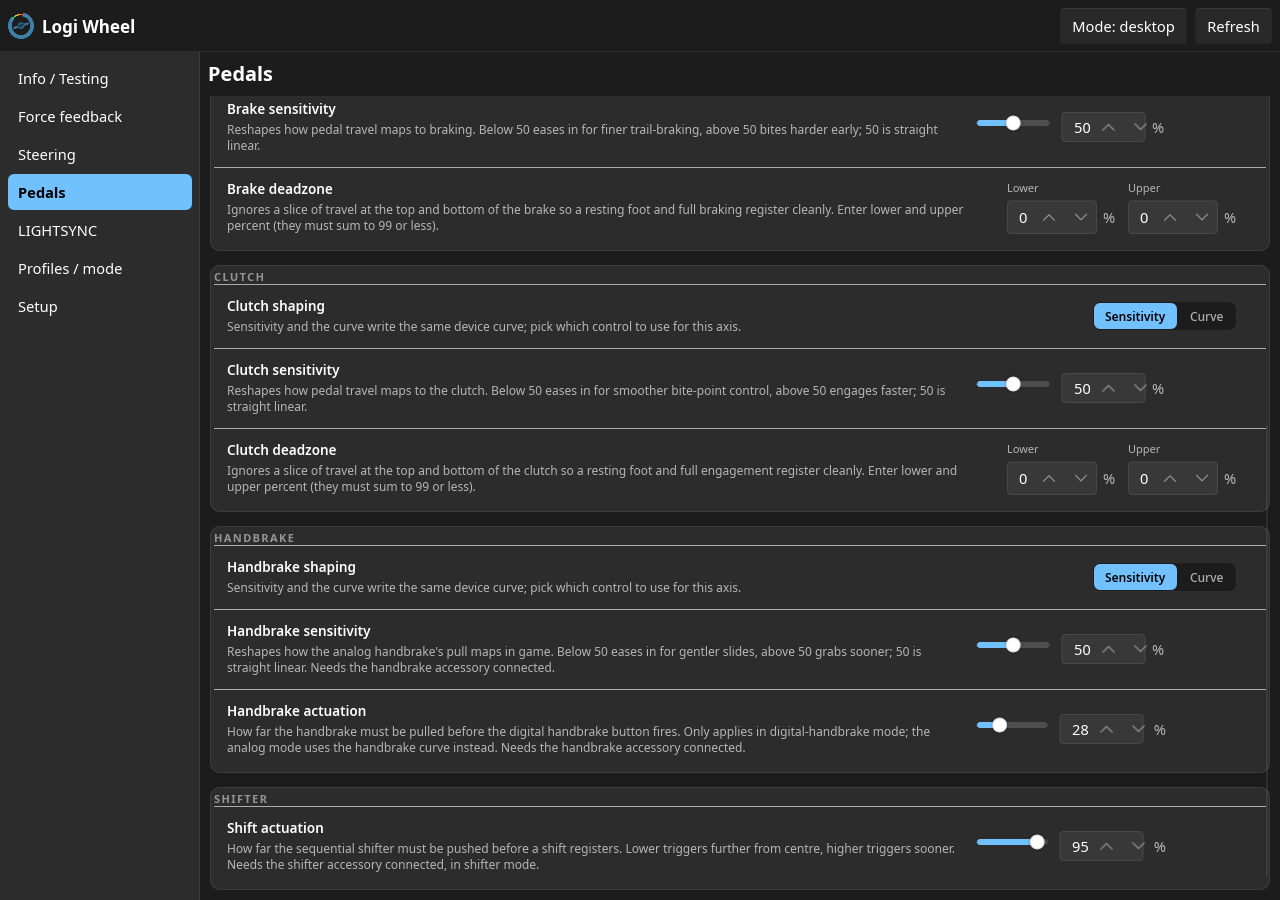
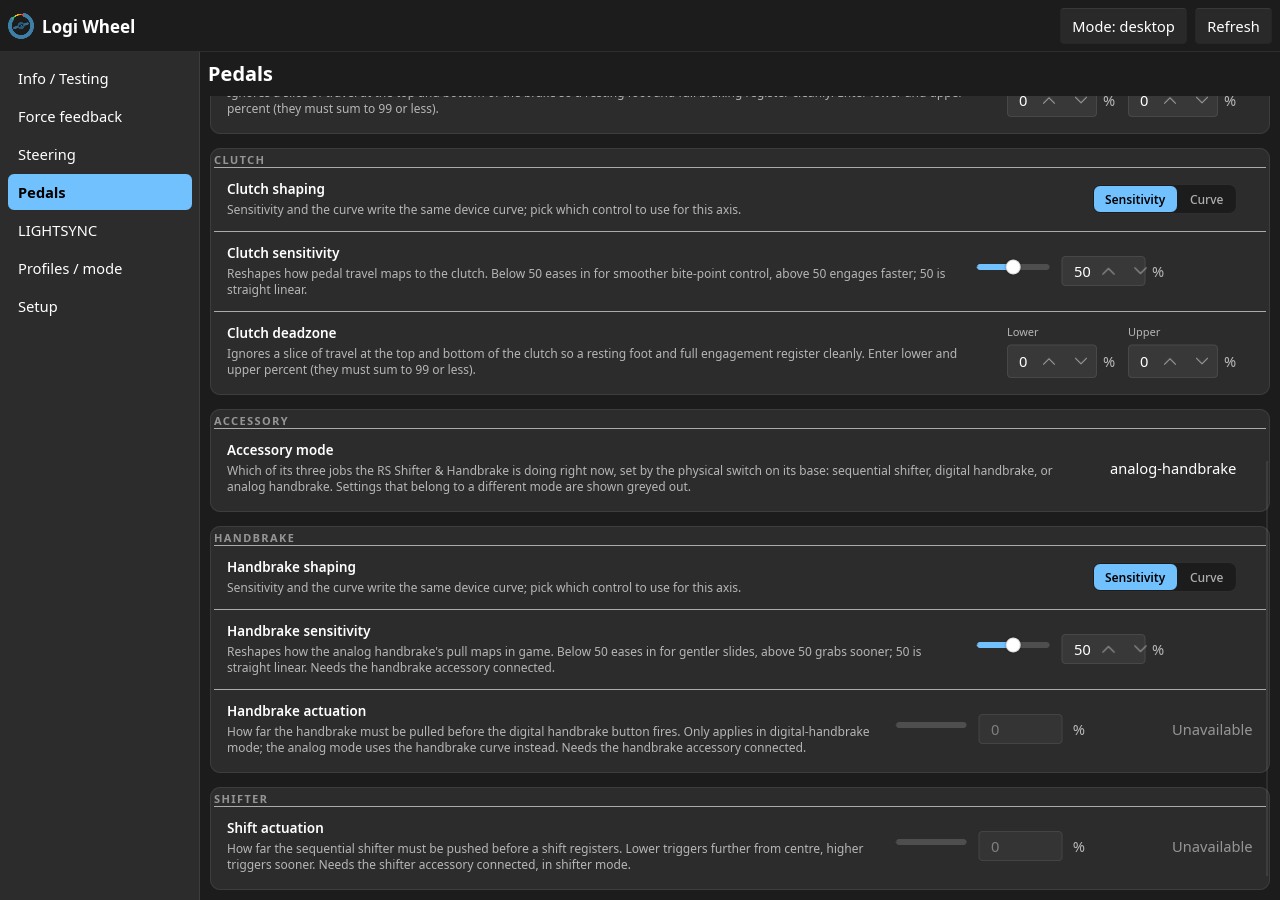
feat(rs50): report the accessory's mode switch and grey what it does not apply to
The RS Shifter & Handbrake is one of three things at a time, chosen by a
physical switch on its base, and most of its settings belong to exactly one
of them - a shift actuation point does nothing while the unit is a handbrake.
Until now the app offered all of them at once with no way to tell which were
live.

wheel_accessory_mode reads the position from feature 0x1B30 fn2 on the
accessory. The value ordering is NOT the switch's left-to-right order, which
is exactly why it was measured rather than assumed - moving the switch
through all three positions while watching fn2 gave:

    0 = sequential shifter   (LEFT)
    2 = digital handbrake    (MIDDLE)
    1 = analog handbrake     (RIGHT)

fn0 returns a static `1a 03 01` and is not the mode; an earlier poll appeared
to show it changing only because it matched replies on the feature index
alone and was picking up fn2's answers.

The apps grey a setting whose mode is not the live one and say which mode it
needs. Gating is presentation-only: sysfs stays writable, because the values
persist across a mode change and setting one up before flipping the switch is
legitimate. An unreadable or unrecognised mode never hides anything.

Verified on hardware: the attribute matches the physical switch, and the GUI
greys Handbrake actuation and Shift actuation while the unit sits in analog
handbrake.

diff --git a/userspace/logi-wheel/crates/logi-wheel-core/src/device.rs b/userspace/logi-wheel/crates/logi-wheel-core/src/device.rs
@@ -98,6 +98,27 @@ pub fn requires_accessory(attr: &str) -> bool {
     ACCESSORY_ATTRS.contains(&attr)
 }
 
+/// The accessory mode an attribute needs before it does anything.
+///
+/// The RS Shifter & Handbrake is one of three things at a time, chosen by a
+/// physical switch, and most of its settings belong to exactly one of them:
+/// a shift actuation point is meaningless while the unit is a handbrake. The
+/// driver reports the live position in `wheel_accessory_mode`, so a frontend
+/// can grey the settings that are not currently doing anything and say why.
+///
+/// Deliberately advisory rather than enforced: the values persist across a
+/// mode change, so writing one while the switch is elsewhere is a legitimate
+/// thing to do (set it up now, flip the switch later). sysfs stays
+/// permissive; only the presentation changes.
+pub fn required_mode(attr: &str) -> Option<&'static str> {
+    match attr {
+        "wheel_shift_actuation" => Some("shifter"),
+        "wheel_handbrake_actuation" => Some("digital-handbrake"),
+        "wheel_handbrake_sensitivity" | "wheel_handbrake_curve" => Some("analog-handbrake"),
+        _ => None,
+    }
+}
+
 pub struct Device<S: SysfsIo> {
     io: S,
     model: WheelModel,
@@ -299,7 +320,10 @@ impl<S: SysfsIo> Device<S> {
         if !self.io.exists(attr) {
             return false;
         }
-        !(requires_accessory(attr) && self.accessory_attached() == Some(false))
+        if requires_accessory(attr) && self.accessory_attached() == Some(false) {
+            return false;
+        }
+        !self.wrong_accessory_mode(attr)
     }
 
     /// Whether `cat` has anything to show for this device: at least one row
@@ -408,6 +432,9 @@ impl<S: SysfsIo> Device<S> {
         if requires_accessory(attr) && self.accessory_attached() == Some(false) {
             return Ok(None);
         }
+        if self.wrong_accessory_mode(attr) {
+            return Ok(None);
+        }
         match self.read(attr) {
             Ok(v) => Ok(Some(v)),
             Err(Error::Unsupported) => Ok(None),
@@ -421,6 +448,31 @@ impl<S: SysfsIo> Device<S> {
     /// driver older than accessory discovery) or unreadable. Callers must
     /// treat `None` as "show the row" rather than hiding it, so an older
     /// driver keeps working instead of silently losing settings.
+    /// The accessory's live mode from `wheel_accessory_mode`, or `None` when
+    /// it cannot be read (no accessory, a driver without the attribute, or
+    /// the firmware reporting a value this build does not know).
+    pub fn accessory_mode(&self) -> Option<String> {
+        if !self.io.exists("wheel_accessory_mode") {
+            return None;
+        }
+        let raw = self.io.read("wheel_accessory_mode").ok()?;
+        let t = raw.trim();
+        if t.is_empty() || t.starts_with("unknown") {
+            return None;
+        }
+        Some(t.to_string())
+    }
+
+    /// Whether `attr` is idle because the accessory is in a different mode.
+    /// `false` whenever the mode cannot be read, so an unknown mode never
+    /// hides a control.
+    pub fn wrong_accessory_mode(&self, attr: &str) -> bool {
+        match (required_mode(attr), self.accessory_mode()) {
+            (Some(want), Some(have)) => want != have,
+            _ => false,
+        }
+    }
+
     pub fn accessory_attached(&self) -> Option<bool> {
         if !self.io.exists("wheel_accessory") {
             return None;
@@ -627,6 +679,55 @@ mod tests {
             d.read_supported("wheel_handbrake_sensitivity").unwrap(),
             Some(Value::Percent(50))
         );
+    }
+
+    /// A wheel with the accessory attached and switched to `mode`.
+    fn dev_in_mode(mode: &str) -> Device<FakeSysfs> {
+        let fs = FakeSysfs::new();
+        for a in ["wheel_shift_actuation", "wheel_handbrake_actuation",
+                  "wheel_handbrake_sensitivity", "wheel_range"] {
+            fs.set(a, "50");
+        }
+        fs.set("wheel_accessory", "RS Shifter & Handbrake");
+        fs.set("wheel_accessory_mode", mode);
+        Device::with_io(fs)
+    }
+
+    #[test]
+    fn accessory_settings_are_gated_on_the_mode_the_switch_is_in() {
+        // The unit is one of three things at a time, and each setting belongs
+        // to exactly one of them.
+        let shifter = dev_in_mode("shifter");
+        assert!(shifter.available("wheel_shift_actuation"));
+        assert!(!shifter.available("wheel_handbrake_actuation"));
+        assert!(!shifter.available("wheel_handbrake_sensitivity"));
+
+        let digital = dev_in_mode("digital-handbrake");
+        assert!(!digital.available("wheel_shift_actuation"));
+        assert!(digital.available("wheel_handbrake_actuation"));
+        assert!(!digital.available("wheel_handbrake_sensitivity"));
+
+        let analog = dev_in_mode("analog-handbrake");
+        assert!(!analog.available("wheel_shift_actuation"));
+        assert!(!analog.available("wheel_handbrake_actuation"));
+        assert!(analog.available("wheel_handbrake_sensitivity"));
+
+        // Nothing else is touched by the mode.
+        assert!(analog.available("wheel_range"));
+    }
+
+    #[test]
+    fn an_unreadable_mode_never_hides_anything() {
+        // A driver without the attribute, or a firmware reporting a value this
+        // build does not know, must not make settings disappear.
+        let fs = FakeSysfs::new();
+        fs.set("wheel_shift_actuation", "50");
+        fs.set("wheel_handbrake_actuation", "50");
+        fs.set("wheel_accessory", "RS Shifter & Handbrake");
+        let d = Device::with_io(fs);
+        assert_eq!(d.accessory_mode(), None);
+        assert!(d.available("wheel_shift_actuation"));
+        assert!(d.available("wheel_handbrake_actuation"));
     }
 
     #[test]

diff --git a/mainline/hid-logitech-hidpp.c b/mainline/hid-logitech-hidpp.c
@@ -12448,6 +12448,61 @@ static ssize_t wheel_shift_actuation_store(struct device *dev,
 		return hidpp_errno(hid, ret, "set shift actuation (down)");
 	return count;
 }
+/*
+ * wheel_accessory_mode: which of its three things the RS Shifter & Handbrake
+ * currently is, read from feature 0x1B30 (DEVICE_MODE) fn2 on the accessory.
+ *
+ * The unit has a physical three-position switch and only one mode is live at
+ * a time, so most of its settings apply to only one of them. Reporting the
+ * position lets a frontend say which controls are currently doing anything
+ * instead of offering all of them at once.
+ *
+ * The value ordering is NOT the switch's left-to-right order, which is
+ * exactly why it was measured rather than assumed (hardware, 2026-07-28,
+ * moving the switch through all three positions while watching fn2):
+ *
+ *   0 = sequential shifter   (switch LEFT)
+ *   2 = digital handbrake    (switch MIDDLE)
+ *   1 = analog handbrake     (switch RIGHT)
+ *
+ * fn0 returns a static `1a 03 01` on this firmware and is not the mode.
+ */
+static const char * const hidpp_dd_accessory_modes[] = {
+	[0] = "shifter",
+	[1] = "analog-handbrake",
+	[2] = "digital-handbrake",
+};
+
+static ssize_t wheel_accessory_mode_show(struct device *dev,
+					 struct device_attribute *attr,
+					 char *buf)
+{
+	struct hid_device *hid = to_hid_device(dev);
+	struct hidpp_dd_ff_data *ff;
+	struct hidpp_report response;
+	u8 mode;
+	int ret;
+
+	ff = hidpp_dd_accessory_ff(hid_get_drvdata(hid), &ret);
+	if (!ff)
+		return ret;
+	if (ff->idx_shifter_mode == HIDPP_DD_FEATURE_NOT_FOUND)
+		return -EOPNOTSUPP;
+
+	memset(&response, 0, sizeof(response));
+	ret = hidpp_send_fap_to_device_sync(ff->hidpp, ff->shifter_dev_idx,
+					    ff->idx_shifter_mode,
+					    0x20 /* fn2 get mode */,
+					    NULL, 0, &response);
+	if (ret)
+		return hidpp_errno(hid, ret, "read accessory mode");
+	mode = response.fap.params[0];
+	if (mode >= ARRAY_SIZE(hidpp_dd_accessory_modes))
+		return sysfs_emit(buf, "unknown (%u)\n", mode);
+	return sysfs_emit(buf, "%s\n", hidpp_dd_accessory_modes[mode]);
+}
+static DEVICE_ATTR(wheel_accessory_mode, 0444, wheel_accessory_mode_show, NULL);
+
 static DEVICE_ATTR(wheel_shift_actuation, 0664,
 		   wheel_shift_actuation_show,
 		   wheel_shift_actuation_store);
@@ -12686,6 +12741,7 @@ static struct attribute *hidpp_dd_wheel_group_attrs[] = {
 	&dev_attr_wheel_serial.attr,
 	&dev_attr_wheel_firmware.attr,
 	&dev_attr_wheel_accessory.attr,
+	&dev_attr_wheel_accessory_mode.attr,
 	&dev_attr_wheel_shift_actuation.attr,
 	&dev_attr_wheel_handbrake_actuation.attr,
 	&dev_attr_wheel_profile_names.attr,

diff --git a/userspace/logi-wheel/crates/logi-wheel-gui/src/bridge.rs b/userspace/logi-wheel/crates/logi-wheel-gui/src/bridge.rs
@@ -144,6 +144,7 @@ pub fn attr_group(attr: &str) -> &'static str {
         "wheel_clutch_sensitivity" | "wheel_clutch_curve" | "wheel_clutch_deadzone" => "CLUTCH",
         "wheel_handbrake_sensitivity" | "wheel_handbrake_curve"
         | "wheel_handbrake_actuation" => "HANDBRAKE",
+        "wheel_accessory_mode" => "ACCESSORY",
         "wheel_shift_actuation" => "SHIFTER",
         "wheel_led_effect" | "wheel_led_brightness" => "STRIP",
         "wheel_led_slot" | "wheel_led_slot_name" | "wheel_led_colors" | "wheel_led_direction"
@@ -2048,8 +2049,10 @@ mod tests {
         ] {
             fs.set(attr, "50");
         }
-        // The handbrake axis is real only with the accessory attached.
+        // The handbrake axis is real only with the accessory attached, and
+        // only while the unit is switched to the analog handbrake.
         fs.set("wheel_accessory", "RS Shifter & Handbrake");
+        fs.set("wheel_accessory_mode", "analog-handbrake");
         let vm = crate::viewmodel::ViewModel::with_io(fs);
         setting_rows(&vm.rows_for(cat))
     }
@@ -2120,6 +2123,7 @@ mod tests {
                 shaping::toggle_attr(Axis::Clutch),
                 "wheel_clutch_sensitivity",
                 "wheel_clutch_deadzone",
+                "wheel_accessory_mode",
                 shaping::toggle_attr(Axis::Handbrake),
                 "wheel_handbrake_sensitivity",
                 "wheel_shift_actuation",
@@ -2146,6 +2150,7 @@ mod tests {
                 shaping::toggle_attr(Axis::Clutch),
                 "wheel_clutch_curve",
                 "wheel_clutch_deadzone",
+                "wheel_accessory_mode",
                 shaping::toggle_attr(Axis::Handbrake),
                 "wheel_handbrake_curve",
                 "wheel_shift_actuation",

diff --git a/userspace/logi-wheel/crates/logi-wheel-core/src/registry.rs b/userspace/logi-wheel/crates/logi-wheel-core/src/registry.rs
@@ -63,6 +63,7 @@ pub const REGISTRY: &[SettingSpec] = &[
     // says marks them inapplicable. `Device::requires_accessory` gates them on
     // `wheel_accessory` instead, which is what makes the rows read unavailable
     // when no handbrake is connected.
+    SettingSpec { attr: "wheel_accessory_mode", label: "Accessory mode", help: "Which of its three jobs the RS Shifter & Handbrake is doing right now, set by the physical switch on its base: sequential shifter, digital handbrake, or analog handbrake. Settings that belong to a different mode are shown greyed out.", category: Pedals, kind: Kind::TextField { max_len: 24 }, access: ReadOnly, mode_req: Any },
     SettingSpec { attr: "wheel_handbrake_sensitivity", label: "Handbrake sensitivity", help: "Reshapes how the analog handbrake's pull maps in game. Below 50 eases in for gentler slides, above 50 grabs sooner; 50 is straight linear. Needs the handbrake accessory connected.", category: Pedals, kind: PCT, access: ReadWrite, mode_req: Any },
     SettingSpec { attr: "wheel_handbrake_curve", label: "Handbrake curve", help: "Shapes the whole handbrake response by hand for precise slide control across its travel. Use 'reset' for the straight built-in response. Needs the handbrake accessory connected.", category: Pedals, kind: Kind::Curve, access: ReadWrite, mode_req: Any },
     // The accessory's own actuation points (0x80B1), after the handbrake
@@ -239,6 +240,7 @@ mod tests {
                 "wheel_clutch_sensitivity",
                 "wheel_clutch_curve",
                 "wheel_clutch_deadzone",
+                "wheel_accessory_mode",
                 "wheel_handbrake_sensitivity",
                 "wheel_handbrake_curve",
                 "wheel_shift_actuation",

diff --git a/userspace/logi-wheel/crates/logi-wheel-tui/src/ui.rs b/userspace/logi-wheel/crates/logi-wheel-tui/src/ui.rs
@@ -362,12 +362,18 @@ fn draw_settings<S: SysfsIo>(buf: &mut Buffer, app: &App<S>, area: Rect) {
                     // An accessory setting is not missing from the wheel, it is
                     // waiting on hardware the user can plug in, so say so rather
                     // than claiming the wheel does not have it.
-                    let why = if logi_wheel_core::device::requires_accessory(&row.attr) {
-                        "(needs handbrake accessory)"
-                    } else {
-                        "(not on this wheel)"
+                    // Say which of the two reasons applies: the accessory is
+                    // missing, or it is present but switched to another mode.
+                    let why = match logi_wheel_core::device::required_mode(&row.attr) {
+                        Some(m) if app.device.accessory_attached() == Some(true) => {
+                            format!("(needs {m} mode)")
+                        }
+                        _ if logi_wheel_core::device::requires_accessory(&row.attr) => {
+                            "(needs handbrake accessory)".to_string()
+                        }
+                        _ => "(not on this wheel)".to_string(),
                     };
-                    (why.to_string(), Style::default().fg(Color::DarkGray))
+                    (why, Style::default().fg(Color::DarkGray))
                 } else if shaping::toggle_axis(&row.attr).is_some() {
                     // A synthetic per-axis view toggle (no registry spec):
                     // show which shaping control the axis currently offers.

diff --git a/README.md b/README.md
@@ -189,9 +189,11 @@ curve editor.
 
 ![logi-wheel-gui curve editor](docs/images/logi-wheel-curve-editor.png)
 
-The **RS Shifter & Handbrake** is supported too: plug it into the wheel base
-and its settings appear on their own, including the shift and handbrake
-trigger points. Unplug it and they go away again.
+The **RS Shifter & Handbrake** is supported too. Plug it into the wheel base
+and its settings appear on their own; unplug it and they go away again. The
+app also reads the physical three-position switch on its base and greys out
+whatever does not apply: below it is in analog-handbrake mode, so the
+handbrake curve is live while the two trigger points are not.
 
 ![logi-wheel-gui RS Shifter and Handbrake settings](docs/images/logi-wheel-accessory.png)
 
